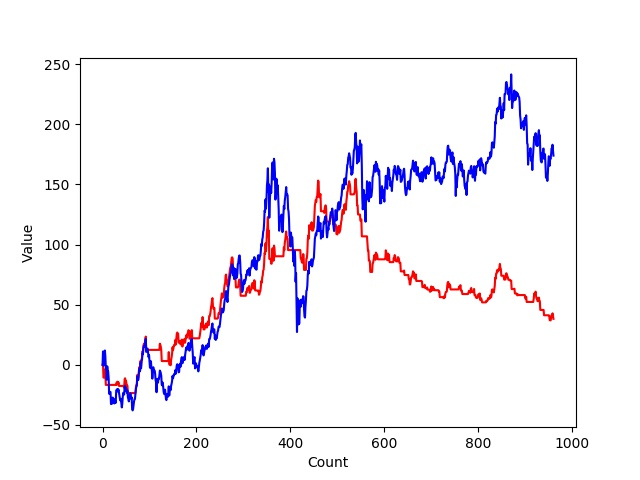
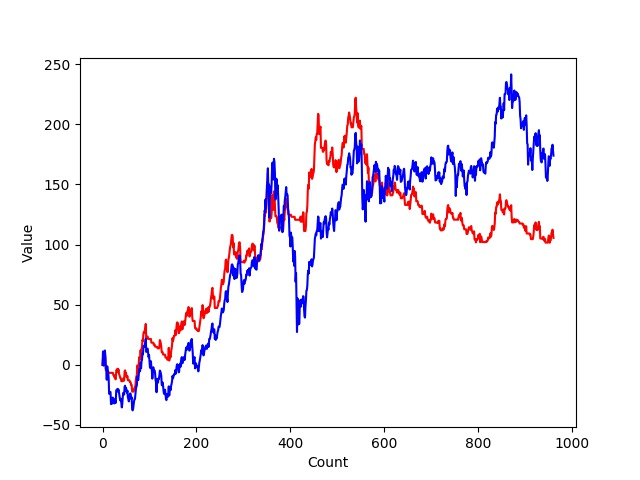
Automated Commision

diff --git a/momentum/momentum.py b/momentum/momentum.py
@@ -23,10 +23,12 @@ def momentum_investing(stock, principal, evaluate_range, evaluate_period):
         for i in range(_range, _range - evaluate_range, -1):
             if stock[_range] > stock[i]:
                 momentum += 1
-        if momentum >= 7:
+        if momentum >= 8:
             momentum = 12
-        else:
+        elif momentum < 3:
             momentum = 0
+        else:
+            momentum = 6
         stock_asset = int(total_asset * (momentum / evaluate_range))
         shares = int(stock_asset / int(stock[_range]))
         stock_asset = shares * int(stock[_range])
